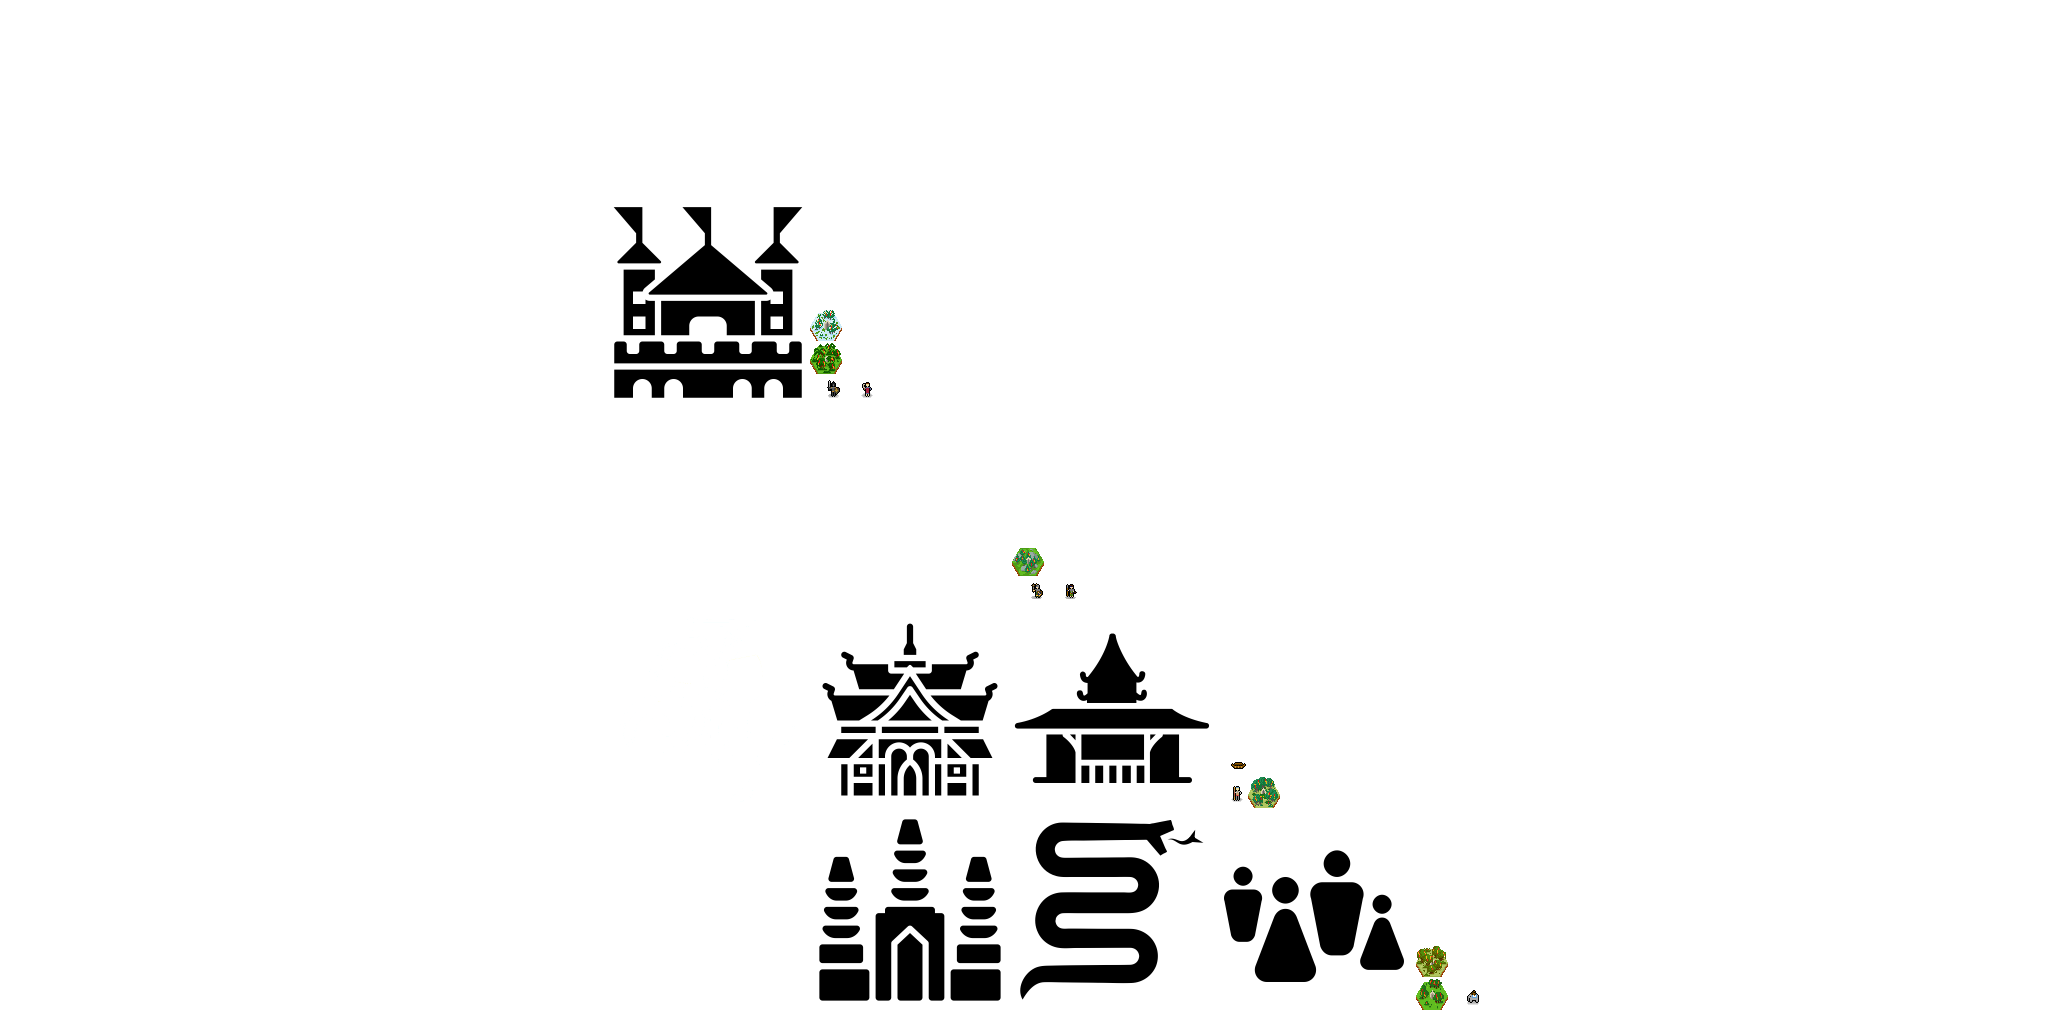
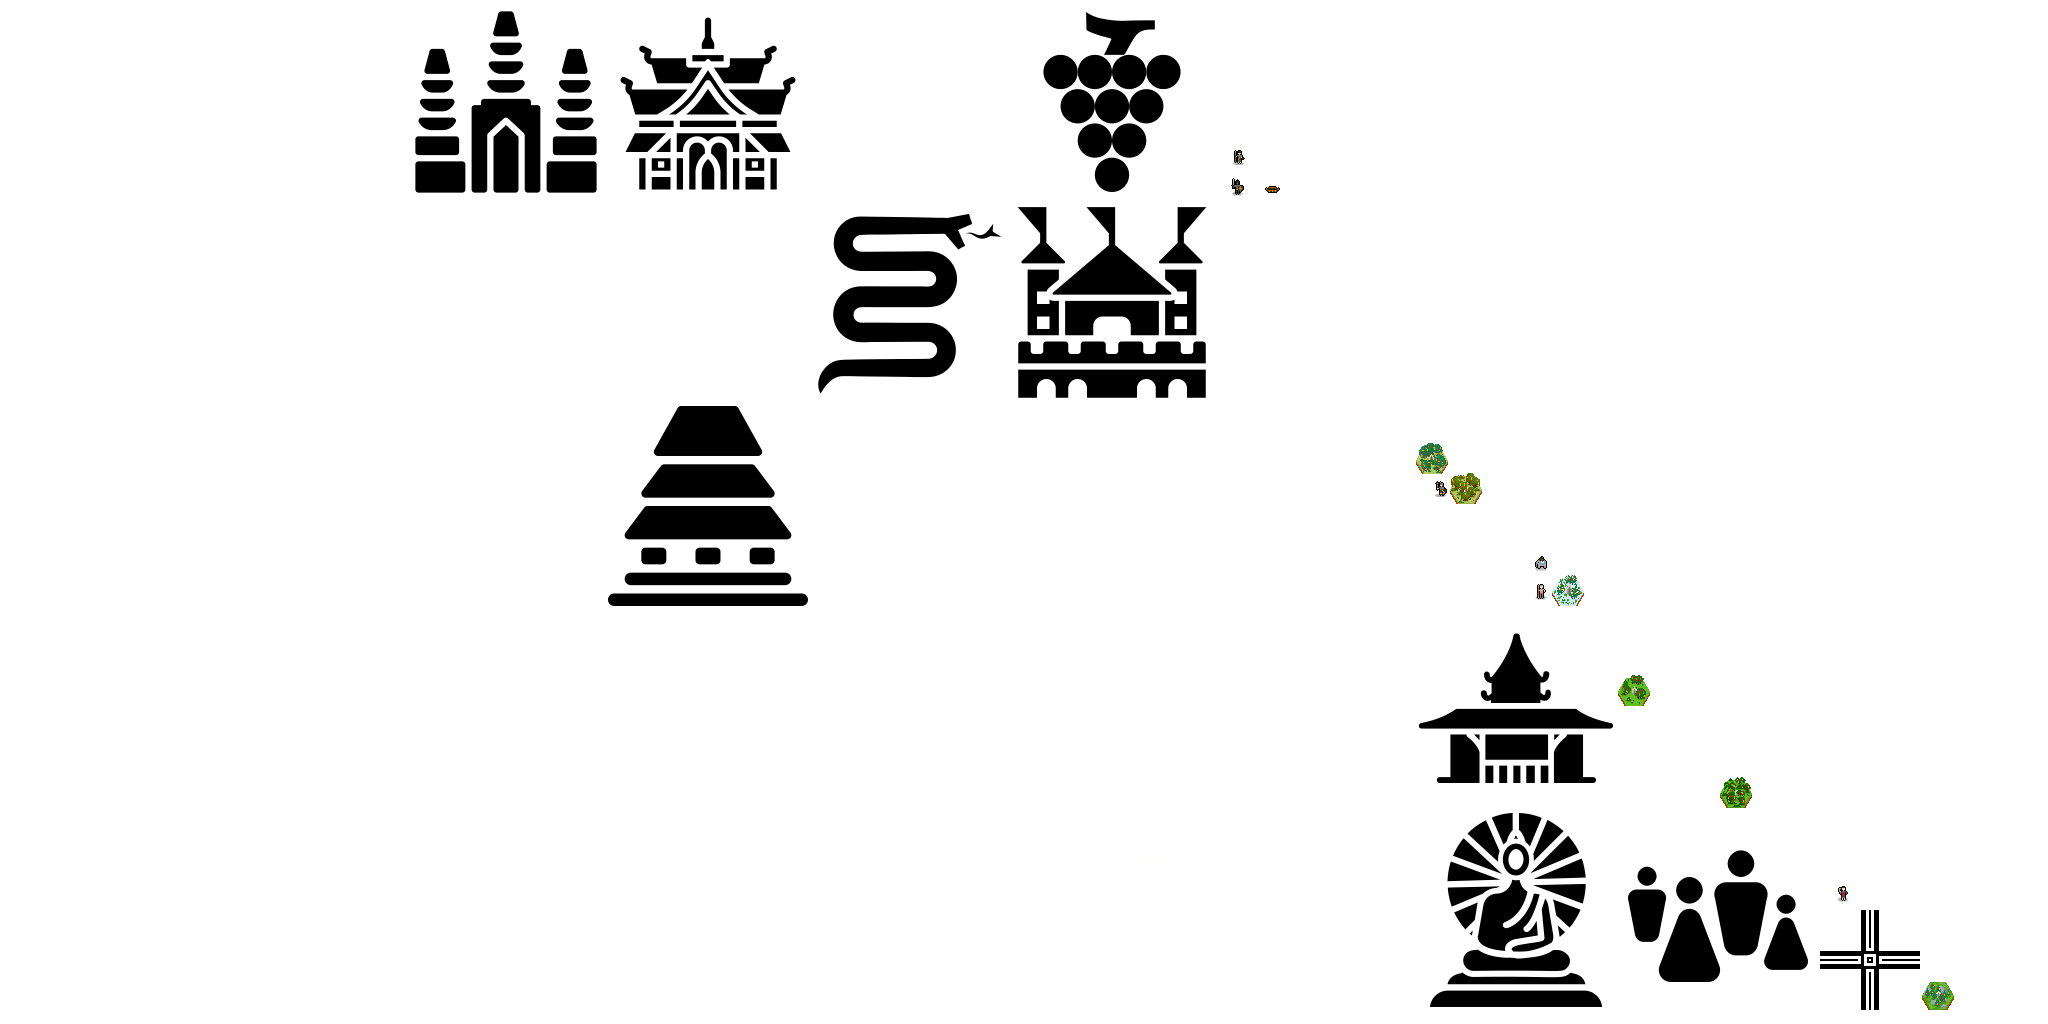
Add files via upload

diff --git a/credits.md b/credits.md
@@ -19,7 +19,27 @@ Tree https://thenounproject.com/term/tree/2968207 By Guilherme Furtado
 Harp https://thenounproject.com/term/harp/2405917 By Andi Nur Abdillah
 Wolf https://thenounproject.com/term/wolf/1942001 By sarah
 luck https://thenounproject.com/term/luck/3391165 By Lars Meiertoberens
-
+---
+Lion https://thenounproject.com/term/lion/114559
+By Alexander Skowalsky
+buddhist https://thenounproject.com/term/buddhist/2126724
+By ProSymbols
+winery https://thenounproject.com/term/winery/79165
+By Vicons Design
+Buddhist Temple https://thenounproject.com/term/buddhist-temple/2009231
+By OCHA Visual
+Crossbow https://thenounproject.com/term/crossbow/3048423
+By Eucalyp 
+horse head https://thenounproject.com/term/horse-head/1324976
+By Icons Producer 
+Saddle https://thenounproject.com/term/saddle/1969245
+By ProSymbols,
+Bacía and Lance https://thenounproject.com/term/bacia-and-lance/177562
+By Felipe Perucho
+Knight https://thenounproject.com/term/knight/3523218
+By nareerat jaikaew
+Triskele https://thenounproject.com/term/triskele/2069915
+By Avana Vana
 
 Translations:
 Smashfanful - Italian
